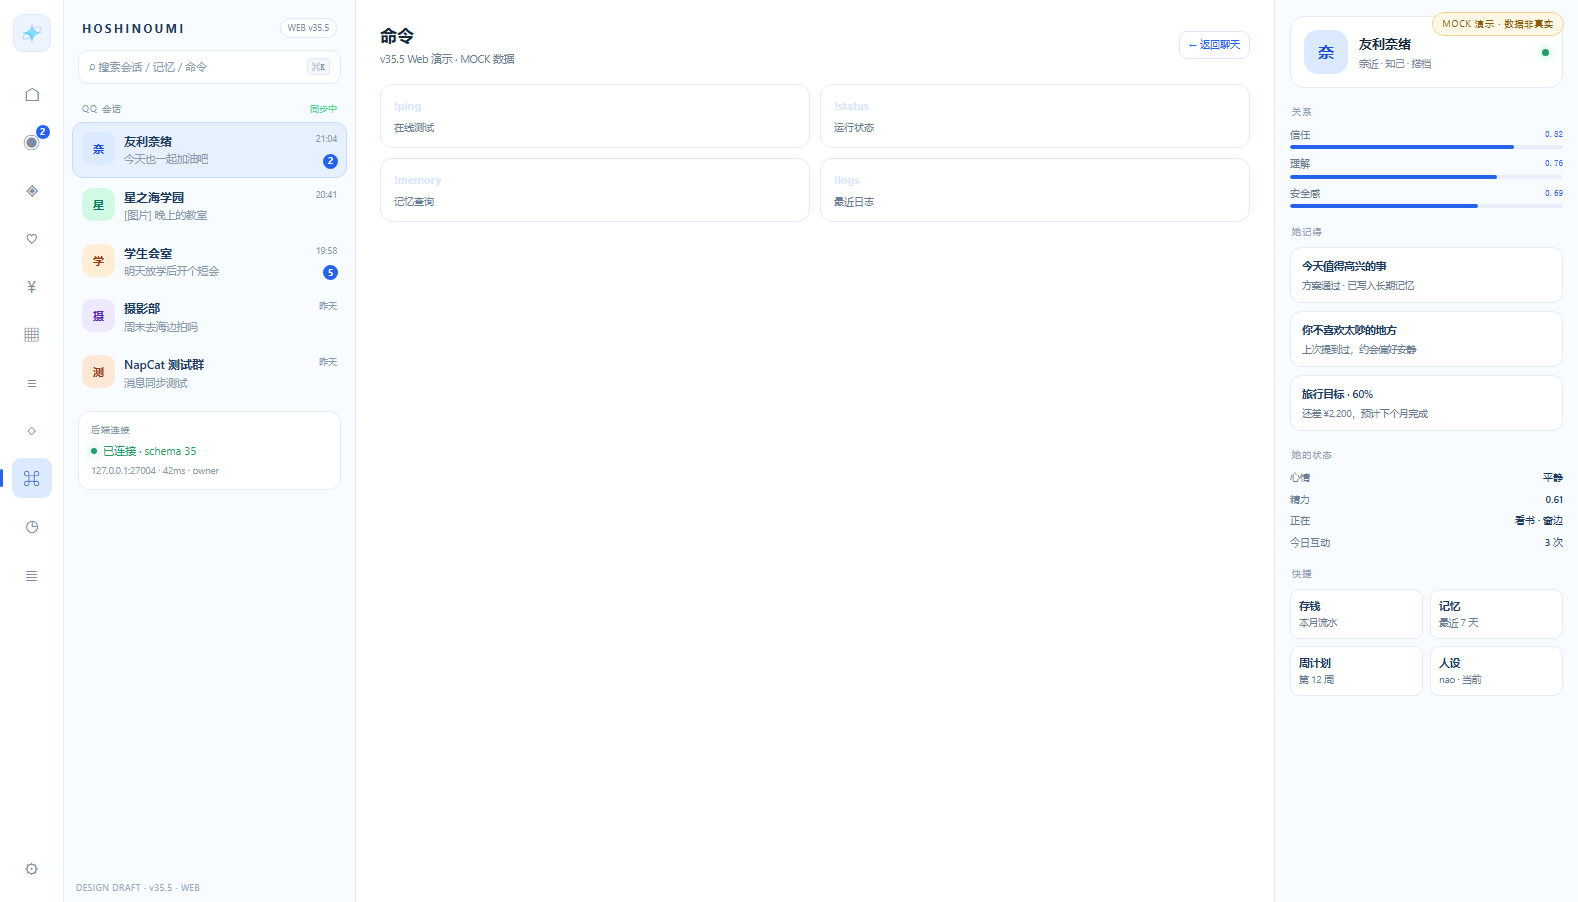
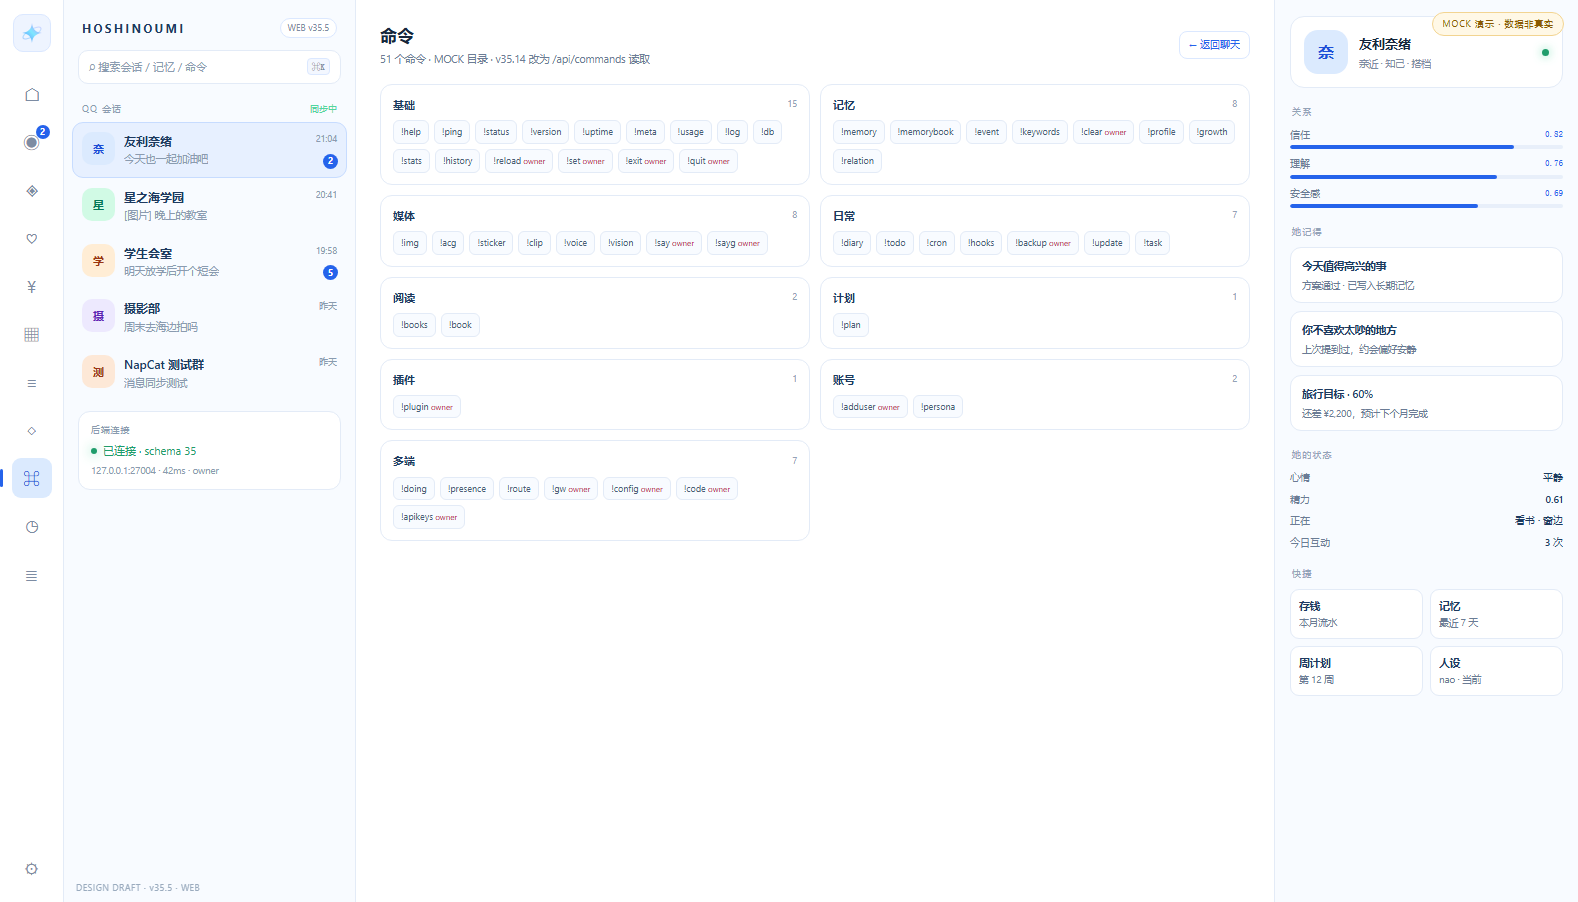
docs(v35.13): 命令目录改后端读取

diff --git a/docs/design/v35/web/demo.js b/docs/design/v35/web/demo.js
@@ -44,6 +44,18 @@
     relation: [['亲密度', '0.62 · 熟'], ['信任', '0.82'], ['理解', '0.76'], ['最近变化', '+0.020 · 聊天']],
     settings: [['后端地址', 'http://127.0.0.1:27004'], ['连接状态', '已连接 · schema 35'], ['主人 QQ', '822891053'], ['视觉', '深色 · 动画默认关闭']]
   };
+  const COMMAND_GROUPS = {
+    '基础': ['!help','!ping','!status','!version','!uptime','!meta','!usage','!log','!db','!stats','!history','!reload','!set','!exit','!quit'],
+    '记忆': ['!memory','!memorybook','!event','!keywords','!clear','!profile','!growth','!relation'],
+    '媒体': ['!img','!acg','!sticker','!clip','!voice','!vision','!say','!sayg'],
+    '日常': ['!diary','!todo','!cron','!hooks','!backup','!update','!task'],
+    '阅读': ['!books','!book'],
+    '计划': ['!plan'],
+    '插件': ['!plugin'],
+    '账号': ['!adduser','!persona'],
+    '多端': ['!doing','!presence','!route','!gw','!config','!code','!apikeys']
+  };
+
   const TITLES = { home: '主页', memory: '记忆', savings: '存钱', weekly: '周计划表', persona: '人设', relation: '关系', info: '信息', commands: '命令', cron: '定时任务', logs: '运行日志', settings: '设置' };
 
   // 注入演示用样式
@@ -63,6 +75,16 @@
     .toast{position:fixed;left:50%;bottom:26px;transform:translateX(-50%) translateY(12px);opacity:0;pointer-events:none;z-index:30;transition:.2s;background:#fff;border:1px solid #dbe8ff;color:#243b55;font-size:10.5px;border-radius:9px;padding:8px 13px;box-shadow:0 10px 24px rgba(37,99,235,.12)}
     .toast.on{opacity:1;transform:translateX(-50%) translateY(0)}
     .typing{color:#8a9bb0;font-size:10px;padding:3px 4px 8px}
+    .cmd-grid{display:grid;grid-template-columns:1fr 1fr;gap:10px}
+    .cmd-group{border:1px solid #e3ebf7;border-radius:12px;background:#fff;padding:11px 12px;transition:border-color .18s,transform .18s,box-shadow .18s}
+    .cmd-group:hover{border-color:#bcd4f7;transform:translateY(-2px);box-shadow:0 8px 18px rgba(37,99,235,.06)}
+    .cmd-group h3{display:flex;align-items:center;font-size:11px;color:#1e3a5f;margin:0 0 7px}
+    .cmd-group h3 span{margin-left:auto;font-weight:400;color:#93a3b8;font-size:9px}
+    .cmd-chips{display:flex;flex-wrap:wrap;gap:5px}
+    .cmd-chip{border:1px solid #e3ebf7;border-radius:6px;background:#f8fbff;color:#4b5f78;font-size:9px;padding:4px 7px;cursor:pointer;transition:background .16s,color .16s,border-color .16s,transform .16s}
+    .cmd-chip:hover{background:#eef4ff;color:#2563eb;border-color:#bcd4f7;transform:translateY(-1px)}
+    .cmd-chip.owner:after{content:' owner';color:#c0264a;font-size:8px}
+
   `;
   document.head.appendChild(css);
 
@@ -152,6 +174,19 @@
   }));
 
   function showPage(name) {
+    if (name === 'commands') {
+      const groups = Object.entries(COMMAND_GROUPS).map(([g, cmds]) =>
+        '<div class="cmd-group"><h3>' + esc(g) + '<span>' + cmds.length + '</span></h3><div class="cmd-chips">' +
+        cmds.map(c => '<button class="cmd-chip' + (/!(reload|set|exit|quit|clear|say|sayg|backup|plugin|adduser|gw|config|code|apikeys)/.test(c) ? ' owner' : '') + '">' + esc(c) + '</button>').join('') +
+        '</div></div>').join('');
+      pageView.innerHTML = '<div class="page-head"><div><h2>命令</h2><p>51 个命令 · MOCK 目录 · v35.14 改为 /api/commands 读取</p></div><button class="back" id="backChat">← 返回聊天</button></div><div class="cmd-grid">' + groups + '</div>';
+      [top, msgs, composer].forEach(x => x.classList.add('chat-hide'));
+      pageView.classList.add('on');
+      document.querySelectorAll('.rnav').forEach(x => x.classList.toggle('on', x.dataset.page === name));
+      document.getElementById('backChat').addEventListener('click', () => showChat());
+      pageView.querySelectorAll('.cmd-chip').forEach(c => c.addEventListener('click', () => toast(c.textContent.trim() + '：MOCK 命令目录')));
+      return;
+    }
     const rows = PAGES[name] || [];
     pageView.innerHTML = '<div class="page-head"><div><h2>' + esc(TITLES[name] || name) +
       '</h2><p>v35.5 Web 演示 · MOCK 数据</p></div><button class="back" id="backChat">← 返回聊天</button></div>' +

diff --git a/docs/versions/v35.md b/docs/versions/v35.md
@@ -368,11 +368,11 @@ HTML：解析 #KebiaoTable1 的 SjdXY 与 dl/dt/dd
 | **v35.5.10.0** | 响应式 / 手机 Web | 窄屏布局；输入/滚动/图片适配 | 手机浏览器可用 |
 | **v35.5.11.0** | 打包 / 演示 / 验收 | Vite build；Mock 标注；接口/视觉回归 | 可演示、可验收 |
 | **v35.5.12.0** | 会话数据源统一：QQ 私聊 / 群 | 后端提供会话列表/群信息/未读；Web 与 VS Code 共用；功能页只走导航 | 群列表与 QQ 一致 |
-| **v35.5.13.0** | 全局导航对齐 DSH：主页/信息/命令/定时/日志 | 12 个入口：主页/nao/记忆/关系/存钱/周计划/信息/人设/设置/命令/定时任务/运行日志；命令页可执行 | 入口与 DSH 一致 |
+| **v35.5.13.0** | 全局导航对齐 DSH：主页/信息/命令/定时/日志 | 12 个入口；命令页可执行；演示 51 条为 MOCK，最终从 `/api/commands` 读取 | 入口与 DSH 一致 |
 | **v35.6.0.0** | Vue 套壳桌面：Tauri 包 Vue Web | 只做壳/托盘/更新，不重写 UI | 桌面能登录聊天 |
 | **v35.6.1.0** | Vue 套壳手机：WebView/Capacitor 包 Vue | 快速验证；不做深度原生 | 手机能登录聊天 |
 | **v35.6.2.0** | 套壳打包/自检/更新 | 安装包/自检/版本提示；兼容包≤50MB；前台≤4GB | 安装包可用且不臃肿 |
-| **v35.7.0.0** | 命令页：命令面板/历史/补全（功能） | 读命令元数据；搜索/执行；结果回显 | 能执行命令 |
+| **v35.7.0.0** | 命令页：命令面板/历史/补全（功能） | 从 `GET /api/commands` 读元数据；搜索/执行；结果回显；不硬编码 | 能执行命令，数量与后端一致 |
 | **v35.7.0.1** | 命令页动画 | 面板展开/补全/结果进入 | 动画可关 |
 | **v35.7.0.2** | 命令页分组/动态更新 | 钩子/状态/日志/API 余额；自动刷新 | 页面实时更新 |
 | **v35.7.1.0** | 存钱/流水页：总余额/分账户/目标/对账/增减（功能） | 总余额置顶；银行卡/支付宝/微信/现金；整数分 | 能看余额并记账 |
@@ -507,6 +507,25 @@ docs/design/v35/web/hoshinoumi-web-v35.5.html
 未配置时先弹配置 CTA，不抛裸错误
 Mock 必须标注
 每页一个次次版本，独立提交
+```
+
+### v35.13–14 命令目录与收尾
+
+命令页不允许客户端硬编码。最终 v35 版本从后端读：
+
+| 版本 | 内容 | 验收 |
+|---|---|---|
+| v35.13.0.0 | `GET /api/commands` 命令目录 | 从 `bot/cmd/registry` 返回 name/group/help/owner/risk；51 条 |
+| v35.13.0.1 | Web / VS Code / DSH 命令页改用该接口 | 三端分组/数量/权限一致 |
+| v35.14.0.0 | 收尾：删除客户端硬编码命令 | 后端新增/删除命令，客户端自动更新 |
+
+规则：
+
+```text
+客户端只渲染 /api/commands 返回的数据
+命令执行仍走 POST /api/command
+owner / risk 标记由后端返回
+演示数据必须标 MOCK，不能冒充后端目录
 ```
 
 ## 6. 开发顺序

diff --git a/docs/design/v35/web/DEVELOPMENT.md b/docs/design/v35/web/DEVELOPMENT.md
@@ -87,10 +87,23 @@ v35.5 演示先给全部入口和命令页；完整功能页在 v35.7 实现。
 | v35.5.10.0 | 窄屏/手机浏览器适配 | 手机可用 |
 | v35.5.11.0 | Vite build、Mock 标注、视觉/接口回归 | 可演示 |
 
+## 4.1 命令目录
+
+命令页最终不硬编码：
+
+```text
+GET /api/commands
+→ name / group / help / owner / risk
+```
+
+客户端只渲染接口返回；执行仍走 `POST /api/command`。演示里的 51 条是 MOCK，最终版删除硬编码。
+
 ## 5. 接口
 
 ```text
 POST /api/chat                 发送
+GET  /api/commands             命令目录
+POST /api/command              执行命令
 GET  /internal/history         历史
 GET  /api/memory               记忆
 GET  /api/relation             关系

diff --git a/docs/design/v35/vscode/DEVELOPMENT.md b/docs/design/v35/vscode/DEVELOPMENT.md
@@ -46,6 +46,10 @@ v35.4.20  全功能验收 / VSIX 重打包
 
 > 未配置后端时，关系页应显示“去配置”，不能只显示“加载失败：后端地址未配置”。
 
+## 1.5 命令目录
+
+v35.4.17 的命令页从 `GET /api/commands` 读目录，不在 `sidebar.html` 里写死 51 条；执行走 `POST /api/command`，owner/risk 由后端返回。
+
 ## 2. 模块拆分
 
 ### 2.1 扩展宿主
